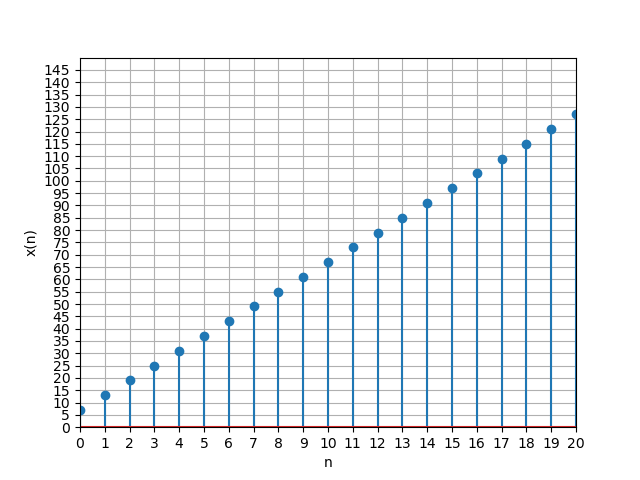
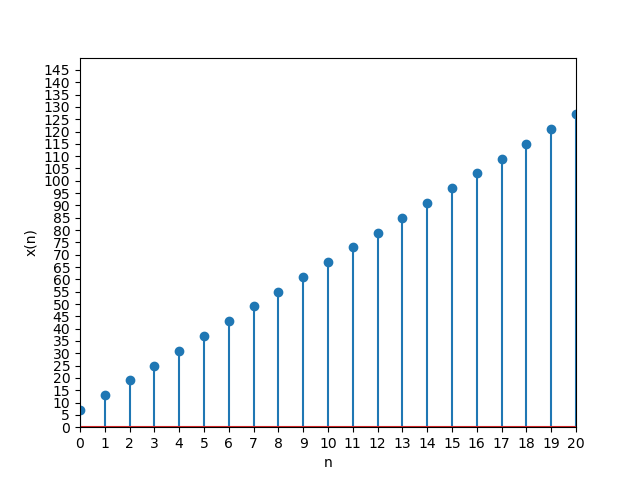
first commit

Changed region(s): [[0.125, 0.125, 0.9062, 0.8438]]

diff --git a/Assignment1/codes/graph1.py b/Assignment1/codes/graph1.py
@@ -16,7 +16,6 @@ plt.xlabel("n")
 plt.ylabel("x(n)")
 plt.xticks(np.arange(0,21, 1))
 plt.yticks(np.arange(0,150, 5))
-plt.grid(True)
 plt.savefig("Figure_1.png")
 plt.show()
 plt.clf()
@@ -28,6 +27,5 @@ plt.xlabel("n")
 plt.ylabel("x(n)")
 plt.xticks(np.arange(0,21, 1))
 plt.yticks(np.arange(-125,26, 5))
-plt.grid(True)
 plt.savefig("Figure_2.png")
 plt.show()
